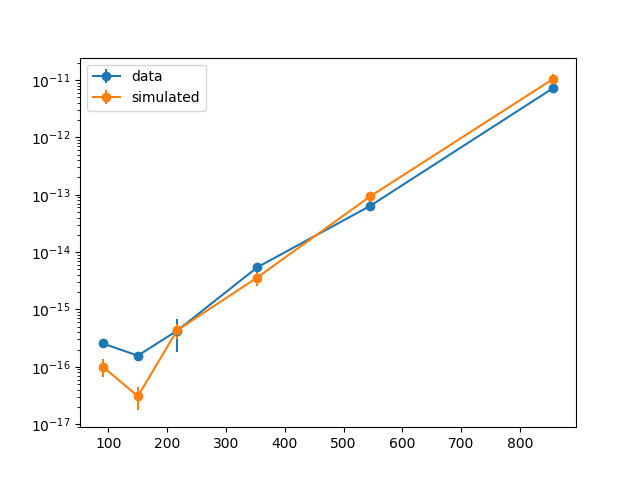
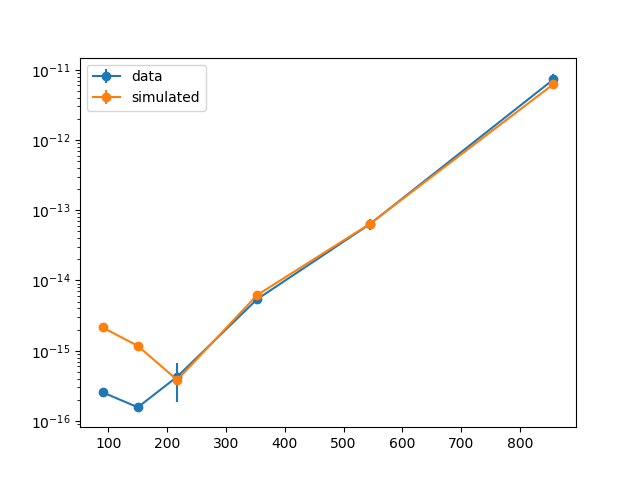
adjusted prior ranges and guess values, particularly for Y

diff --git a/emceefitsimulated.py b/emceefitsimulated.py
@@ -167,7 +167,7 @@ def lnlike(param,nu,S,yerr):
 def lnprior(param):
     #sys.exit()
     Y,D=param
-    if 1e-17 < Y < 1e-16 and  5e-18< D < 5e-17:# and -1e-16 < dT < 0:
+    if 1e-16 < Y < 1e-15 and  1e-19< D < 5e-16:# and -1e-16 < dT < 0:
         return 0.0
     return -np.inf
 
@@ -179,7 +179,7 @@ def lnprob(param, nu, S, yerr):
 
 
 ndim, nwalkers = 2, 20
-guess=np.array([4.5e-17,9e-18])
+guess=np.array([5e-16,8e-18])
 pos = [guess*(1+0.1*np.random.uniform(-1,1,size=ndim)) for i in range(nwalkers)]
 #print(pos[0],pos[1])
 #sys.exit()
@@ -200,48 +200,48 @@ pos = [guess*(1+0.1*np.random.uniform(-1,1,size=ndim)) for i in range(nwalkers)]
 
 #Uncomment this area later
 import emcee
-# sampler = emcee.EnsembleSampler(nwalkers, ndim, lnprob, args=(freqlist, apmeans, aperr))
+sampler = emcee.EnsembleSampler(nwalkers, ndim, lnprob, args=(freqlist, apmeans, aperr))
 
 
-# sampler.run_mcmc(pos, 500000)
-# rawsamples=sampler.chain[:,:, :]
-# np.save("../samples.npy",rawsamples)
-# samples = sampler.chain[:, 50:, :].reshape((-1, ndim))
-# print(samples.shape)
-# Y_samples=rawsamples[:,:,0]
+sampler.run_mcmc(pos, 500000)
+rawsamples=sampler.chain[:,:, :]
+np.save("../samples.npy",rawsamples)
+samples = sampler.chain[:, 50:, :].reshape((-1, ndim))
+print(samples.shape)
+Y_samples=rawsamples[:,:,0]
 
-# D_samples=rawsamples[:,:,1]
-# #dT_samples=rawsamples[:,:,2]
-# #print(Y_samples)
-# plt.hist(Y_samples.reshape(-1))
-# plt.title('Y')
-# plt.savefig('Y mcmc values.png')
-# plt.close()
+D_samples=rawsamples[:,:,1]
+#dT_samples=rawsamples[:,:,2]
+#print(Y_samples)
+plt.hist(Y_samples.reshape(-1))
+plt.title('Y')
+plt.savefig('Y mcmc values.png')
+plt.close()
 
-# plt.hist(D_samples.reshape(-1))
-# plt.title('D')
-# plt.savefig('D mcmc values.png')
+plt.hist(D_samples.reshape(-1))
+plt.title('D')
+plt.savefig('D mcmc values.png')
 
-# # plt.hist(dT_samples)
-# # plt.title('dT')
-# # plt.savefig('dT mcmc values.png')
+# plt.hist(dT_samples)
+# plt.title('dT')
+# plt.savefig('dT mcmc values.png')
 
-# for i in range(nwalkers):
-#     plt.plot(Y_samples[i,:])
-#     #print(Y_samples[i,:])
-# ymin=np.min(Y_samples)
-# ymax=np.max(Y_samples)
-# plt.ylim(ymin,ymax)
-# plt.title('Y')
-# plt.savefig('Y mcmc chain.png')
+for i in range(nwalkers):
+    plt.plot(Y_samples[i,:])
+    #print(Y_samples[i,:])
+ymin=np.min(Y_samples)
+ymax=np.max(Y_samples)
+plt.ylim(ymin,ymax)
+plt.title('Y')
+plt.savefig('Y mcmc chain.png')
 
-# for i in range(nwalkers):
-#     plt.plot(D_samples[i,:])
-# ymin=np.min(D_samples)
-# ymax=np.max(D_samples)
-# plt.ylim(ymin,ymax)
-# plt.title('D')
-# plt.savefig('D mcmc chain.png')
+for i in range(nwalkers):
+    plt.plot(D_samples[i,:])
+ymin=np.min(D_samples)
+ymax=np.max(D_samples)
+plt.ylim(ymin,ymax)
+plt.title('D')
+plt.savefig('D mcmc chain.png')
 #Uncomment this area later
 
 # plt.plot(dT_samples)
@@ -259,20 +259,22 @@ import emcee
 # plt.savefig('Teff mcmc values.png')
 
 #samples[:, 1] = np.exp(samples[:, 1])
-# Y_mcmc, D_mcmc= map(lambda v: (v[1], v[1]-v[0]),
-#                              zip(*np.percentile(samples, [16, 50, 84],
-#                                                 axis=0)))
-# print(Y_mcmc, D_mcmc)
-# print(np.mean(Y_samples))
-# print(np.mean(D_samples))
+Y_mcmc, D_mcmc= map(lambda v: (v[1], v[1]-v[0]),
+                             zip(*np.percentile(samples, [16, 50, 84],
+                                                axis=0)))
+print(Y_mcmc, D_mcmc)
+print(np.mean(Y_samples))
+print(np.mean(D_samples))
 #print('Hi')
 
 
 
-Y = 4.5e-17
-D = 9e-18
+# Y = 4.5e-17
+# D = 9e-18
 # Y = -7.96871772e-17
 # D = 5.74833793e-18
+Y = 5e-16
+D = 8e-18
 
 
 dT = 0.
@@ -286,9 +288,11 @@ ysyn += ynoise
 # print(lnlike(param,freqlist, ysyn, yerrs))
 # sys.exit()
 
-sampler = emcee.EnsembleSampler(nwalkers, ndim, lnprob, args=(freqlist, ysyn, yerrs))
-sampler.run_mcmc(pos, 50000)
-sim_samples = sampler.chain[:, 50:, :].reshape((-1, ndim))
+# #uncomment if you want simulated corner plots
+# sampler = emcee.EnsembleSampler(nwalkers, ndim, lnprob, args=(freqlist, ysyn, yerrs))
+# sampler.run_mcmc(pos, 50000)
+# sim_samples = sampler.chain[:, 50:, :].reshape((-1, ndim))
+# #uncomment if you want simulated corner plots
 
 plt.close()
 plt.errorbar(freqlist,np.abs(apmeans),aperrs,label='data',marker='o')
@@ -300,9 +304,9 @@ print(aperrs)
 print(yerrs)
 
 import corner
-#fig = corner.corner(samples, labels=["$Y$", "$D$"])#,
+fig = corner.corner(samples, labels=["$Y$", "$D$"])#,
                      #truths=[Y, D])
 fig1 = corner.corner(sim_samples, labels=["$Y$", "$D$"],
                       truths=[Y, D])
-#fig.savefig("triangle500000.png")
-fig1.savefig("simulatedtriangle500000.png")
+fig.savefig("triangle500000.png")
+#fig1.savefig("simulatedtriangle50000.png")
